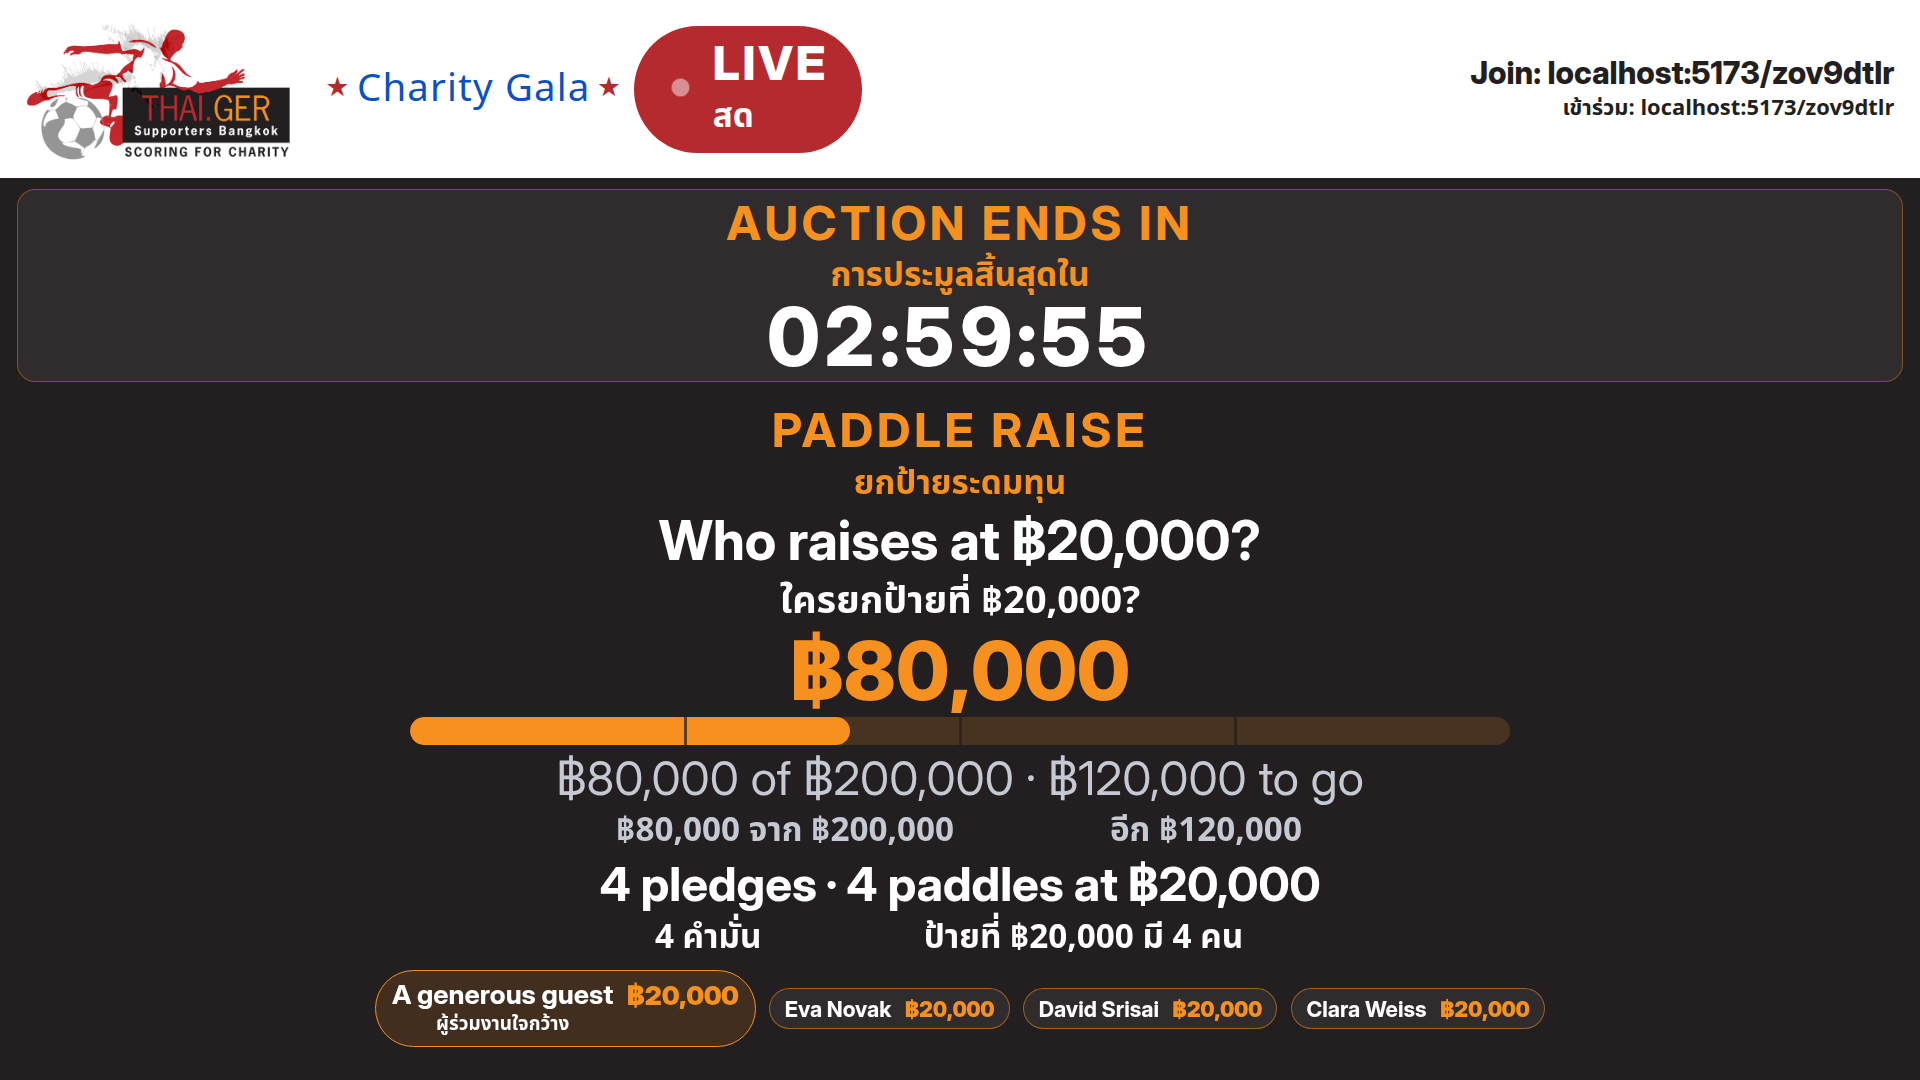
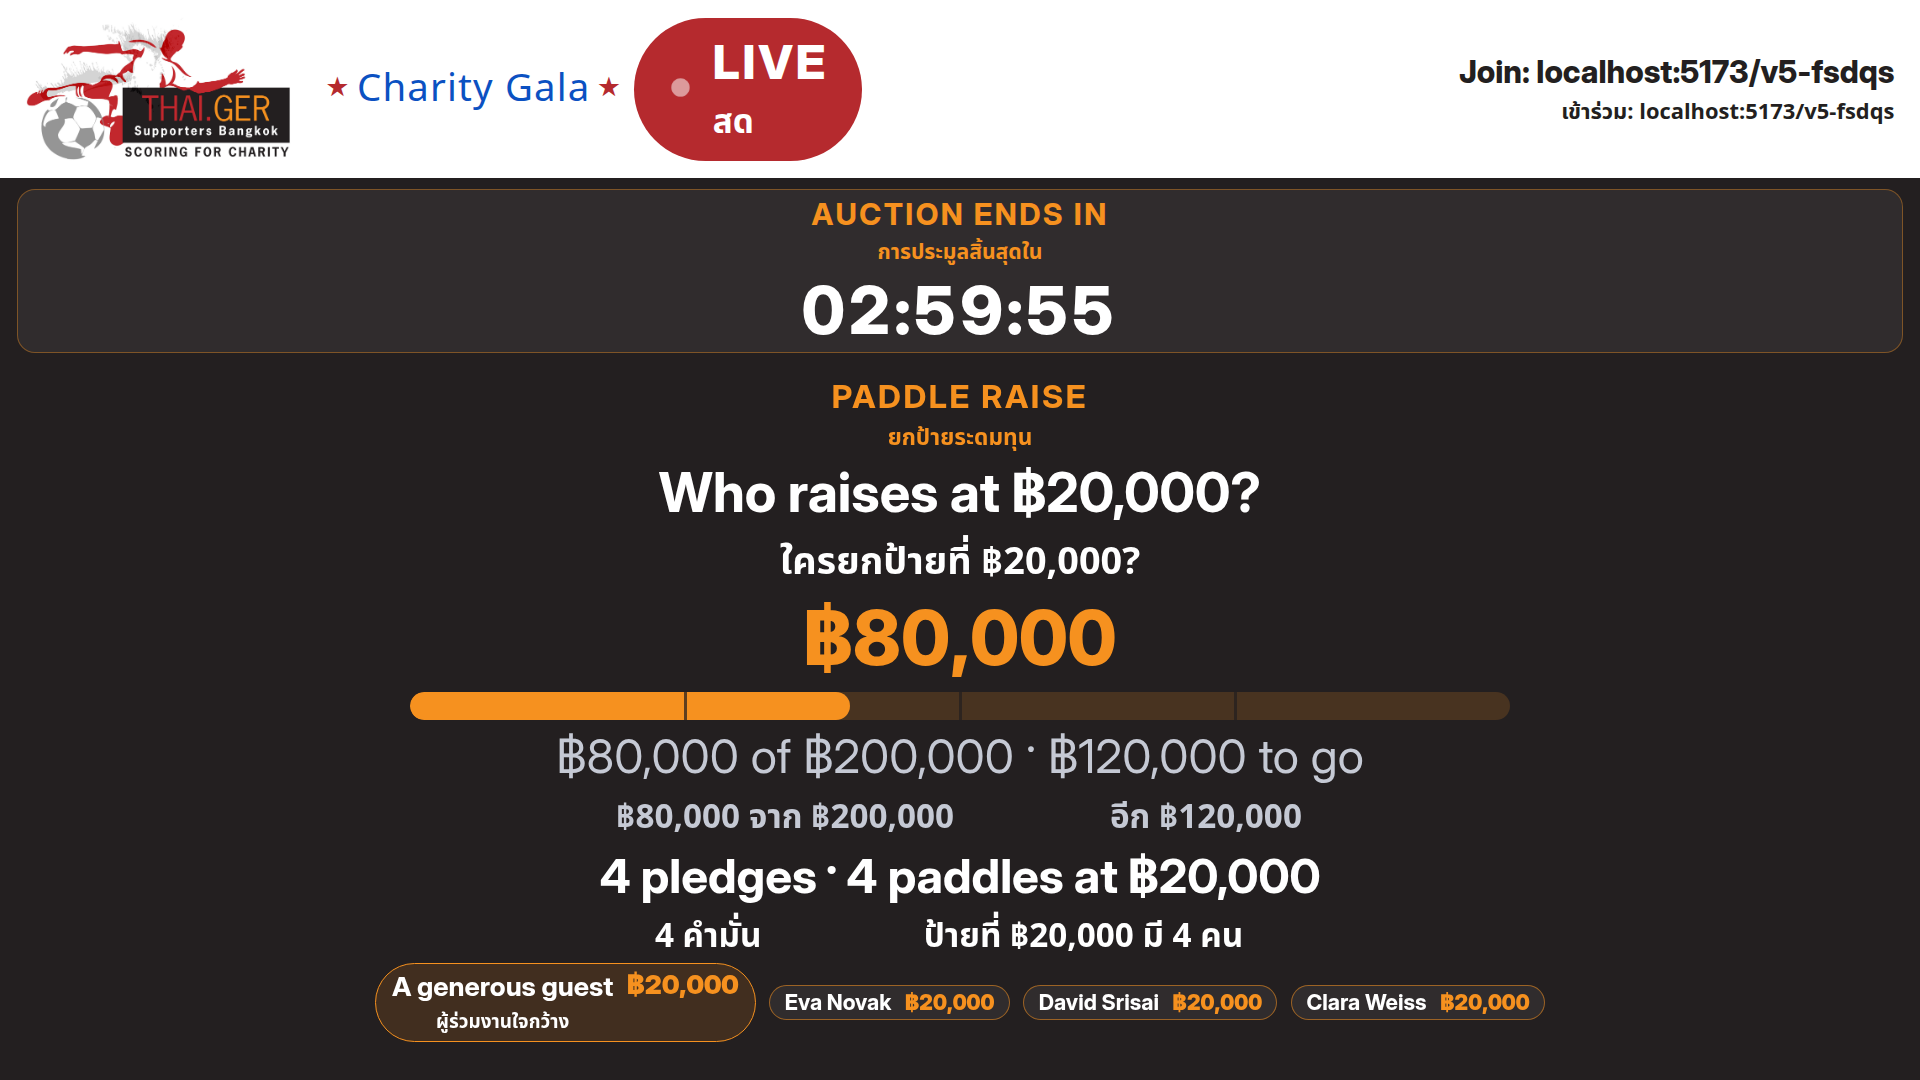
Refresh the projector review shots after the tile-fit pass.

diff --git a/docs/ux-review.md b/docs/ux-review.md
@@ -68,4 +68,4 @@ The bid card already had the centred amount, −/+, the leader, and a filled `Bi
 
 ## Checked
 
-No console errors on the seeded pass. Web typecheck, web tests and the web build were run on this branch. Thai at 1080p is 33.3px on headlines and 70% of every secondary English line (21.9px under a 31.3px label). The logo aspect on the guest header is 64px tall by 114px wide, which is 1280×719. On the projector the same file is 151px tall at 1080p (96px at 720p), about 85% of the white band, with clear space above and below. The right of that band reads “Join: host/code” at 31px (24px at 720p), Thai underneath. The screen is a 100vh grid: lower rows are whole or left out. A closed night says Top lot / Sold for, hides Latest bids, and gives that width to Results. Closed early is a 31px note. Live is a red pill; closed is solid ink. The last minute is one centre timer, and the closed screen leads with thank-you and the total.
+No console errors on the seeded pass. Web typecheck, web tests and the web build were run on this branch. Thai at 1080p is 33.3px on headlines and 70% of every secondary English line (21.9px under a 31.3px label). The logo aspect on the guest header is 64px tall by 114px wide, which is 1280×719. On the projector the same file is 151px tall at 1080p (96px at 720p), about 85% of the white band, with clear space above and below. The right of that band reads “Join: host/code” at 31px (24px at 720p), Thai underneath. The screen is a 100vh grid. Tiles size to their text, and lists draw only whole rows. Raised so far is the label, the total and one tally line. Top lot is the name, Sold for and the winner. The QR has no URL under it. A closed night hides Latest bids and gives that width to Results. Closed early sits under the thank-you; at 1080p it is 25px (17px Thai). Live is a red pill; closed is solid ink. The last minute is one centre timer, and the closed screen leads with thank-you and the total.
